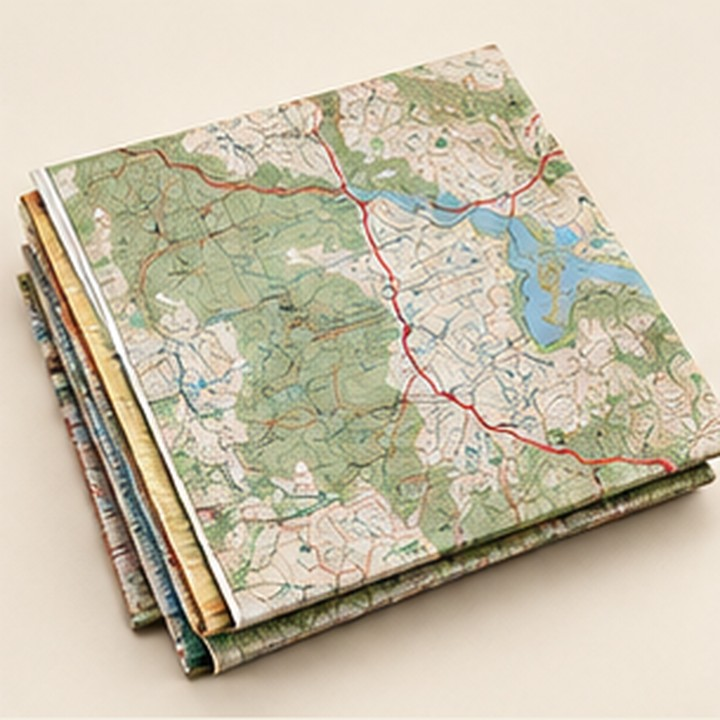
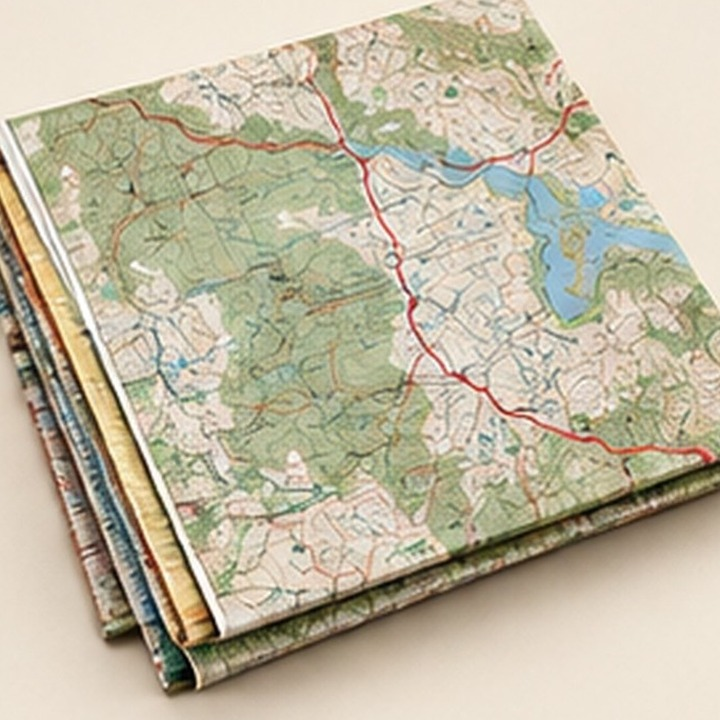
Add files via upload

diff --git a/css/styles.css b/css/styles.css
@@ -1,5 +1,7 @@
 @import url('https://fonts.googleapis.com/css2?family=DM+Sans:wght@400;500;600;700&family=Playfair+Display:ital,wght@0,500;0,600;0,700;1,500;1,600&display=swap');
-:root{--forest:#183b2d;--forest2:#254e3b;--moss:#758361;--cream:#f3f0e6;--paper:#fbfaf5;--sand:#dfd5bf;--orange:#db6a36;--ink:#1e2922;--muted:#69736a;--line:#deded2;--max:1380px}*{box-sizing:border-box}html{scroll-behavior:smooth;scroll-padding-top:90px}body{margin:0;background:var(--paper);color:var(--ink);font-family:'DM Sans',Arial,sans-serif;line-height:1.5}a{color:inherit;text-decoration:none}button,input,select{font:inherit}button{cursor:pointer;color:inherit}.sr-only{position:absolute;width:1px;height:1px;padding:0;margin:-1px;overflow:hidden;clip:rect(0,0,0,0);white-space:nowrap;border:0}.topline{display:flex;justify-content:space-between;padding:8px max(22px,calc((100vw - var(--max))/2));background:var(--forest);color:#e9e9d7;font-size:9px;letter-spacing:.15em}.header{max-width:var(--max);margin:auto;padding:17px 28px;display:grid;grid-template-columns:260px minmax(230px,1fr) auto;gap:28px;align-items:center}.brand{display:flex;align-items:center;gap:10px}.brand img{width:58px;height:58px;object-fit:contain}.brand span{display:flex;flex-direction:column;line-height:1.1}.brand b{font-family:'Playfair Display',serif;font-size:27px;letter-spacing:.08em}.brand small{font-size:8px;letter-spacing:.14em;color:var(--moss);margin-top:5px;font-weight:700}.search{height:43px;display:flex;border:1px solid #d6d7cc;background:white;border-radius:3px;max-width:650px;width:100%}.search:focus-within{border-color:var(--forest)}.search input{flex:1;min-width:0;border:0;outline:0;padding:0 14px;background:transparent;font-size:12px}.search button{width:44px;border:0;background:var(--forest);color:white;font-size:25px}.header-actions{display:flex;gap:16px}.head-action{border:0;background:transparent;font-size:13px;display:flex;align-items:center;gap:7px}.head-action b{background:var(--forest);color:white;border-radius:50%;font-size:10px;min-width:20px;height:20px;display:grid;place-items:center}.nav{display:flex;justify-content:center;gap:0;border-top:1px solid var(--line);border-bottom:1px solid var(--line);overflow:auto;white-space:nowrap;padding:0 10px;background:#fffdf8}.nav a{padding:13px 19px;font-size:11px;color:#4c594f;border-bottom:2px solid transparent}.nav a:hover,.nav a.selected{border-color:var(--orange);color:var(--forest)}main{max-width:var(--max);margin:auto}.hero{position:relative;min-height:570px;overflow:hidden;background:#22382c;display:flex;align-items:center;color:white}.hero-image{position:absolute;inset:0;width:100%;height:100%;object-fit:cover;object-position:center 56%}.hero-shade{position:absolute;inset:0;background:linear-gradient(90deg,rgba(17,39,29,.94) 0%,rgba(22,47,35,.79) 35%,rgba(22,47,35,.24) 72%,rgba(22,47,35,.1) 100%)}.hero-copy{position:relative;z-index:1;padding:64px 6.5%;max-width:680px}.eyebrow{margin:0 0 14px;font-size:9px;letter-spacing:.19em;font-weight:700;color:var(--orange)}.hero .eyebrow{color:#f4c89c}.hero .eyebrow span{display:inline-block;width:7px;height:7px;background:var(--orange);border-radius:50%;margin-right:9px}.hero h1{font-family:'Playfair Display',serif;font-size:clamp(54px,7vw,92px);line-height:.96;letter-spacing:-.05em;margin:0 0 20px;font-weight:600}.hero h1 em,.section-head h2 em,.wide-callout h2 em,.story h2 em,.newsletter h2 em{font-style:italic;color:#e9b080}.hero-copy>p:not(.eyebrow){max-width:455px;color:#e0e5db;font-size:15px;line-height:1.8;margin:0 0 26px}.hero-buttons{display:flex;gap:10px;flex-wrap:wrap}.button{display:inline-flex;justify-content:center;align-items:center;gap:18px;border:1px solid transparent;border-radius:2px;padding:13px 17px;font-size:11px;font-weight:700;transition:transform .2s,background .2s}.button:hover{transform:translateY(-2px)}.button-orange{background:var(--orange);color:white}.button-orange:hover{background:#c85b2b}.button-light{background:#fffaf0;color:var(--forest);border-color:#fffaf0}.button-green{background:var(--forest);color:white}.button-green:hover{background:var(--forest2)}.hero-caption{display:flex;gap:14px;align-items:center;margin-top:43px;font-size:10px;color:#d1d9ce}.hero-caption b{color:#f2b78d;letter-spacing:.14em}.hero-stamp{position:absolute;right:5%;bottom:40px;border:1px solid #f5e9d099;border-radius:50%;width:110px;height:110px;display:flex;flex-direction:column;align-items:center;justify-content:center;color:#f7f0e0;text-align:center;font-size:11px;font-weight:700;letter-spacing:.12em;transform:rotate(10deg)}.hero-stamp b{font-size:20px;color:#f2b78d}.principles{display:grid;grid-template-columns:repeat(3,1fr);border-bottom:1px solid var(--line);padding:23px 42px;gap:20px;background:#f3f0e6}.principles>div{display:flex;align-items:center;gap:14px}.principles>div>b{font-family:'Playfair Display',serif;font-size:25px;color:var(--orange)}.principles strong,.principles small{display:block}.principles strong{font-size:12px}.principles small{font-size:10px;color:var(--muted);margin-top:3px}.section{padding:70px 34px}.section-head{display:flex;justify-content:space-between;align-items:end;gap:24px;margin-bottom:28px}.section-head h2,.story h2,.newsletter h2{font-family:'Playfair Display',serif;font-size:clamp(34px,4vw,49px);line-height:1.05;letter-spacing:-.035em;margin:0}.section-head h2 em,.story h2 em,.newsletter h2 em{color:var(--forest)}.section-head>p{max-width:350px;color:var(--muted);font-size:12px;margin:0 0 3px}.category-grid{display:grid;grid-template-columns:repeat(4,1fr);gap:13px}.category-card{min-height:230px;position:relative;overflow:hidden;border:0;text-align:left;color:white;padding:22px;display:flex;flex-direction:column;align-items:flex-start;justify-content:flex-end;background:var(--forest);isolation:isolate}.category-card:before{content:"";position:absolute;inset:0;z-index:-1;transition:transform .35s;background:linear-gradient(0deg,rgba(13,37,26,.91),rgba(13,37,26,.04))}.category-card:hover:after{transform:scale(1.06)}.category-card:after{content:"";position:absolute;inset:0;z-index:-2;transition:transform .35s;background-size:cover;background-position:center}.cat-map:after{background-image:url('../assets/images/products/topographic-map-set.jpg')}.cat-nav:after{background-image:url('../assets/images/products/baseplate-compass.jpg')}.cat-hike:after{background-image:url('../assets/images/products/trekking-poles.jpg')}.cat-pack:after{background-image:url('../assets/images/products/hiking-backpack.jpg')}.category-index{position:absolute;top:17px;left:20px;font-size:8px;letter-spacing:.17em;color:#f0c49c}.category-symbol{font-family:'Playfair Display',serif;font-size:42px;line-height:1;margin-bottom:auto;color:#f0c49c}.category-card strong{font-family:'Playfair Display',serif;font-size:22px;font-weight:500}.category-card small{font-size:10px;margin-top:6px;color:#eee7d8}.shop{padding-top:12px}.shop-toolbar{display:flex;align-items:center;justify-content:space-between;margin:0 0 15px;padding:12px 0;border-top:1px solid var(--line);font-size:10px;color:var(--muted)}.shop-toolbar>div{display:flex;gap:8px}.shop-toolbar select{border:1px solid #d4d5ca;background:#fffdf8;padding:9px 24px 9px 10px;color:var(--ink);font-size:10px;border-radius:2px}.product-grid{display:grid;grid-template-columns:repeat(4,minmax(0,1fr));gap:14px}.product-card{border:1px solid #e0dfd4;background:#fffdf8;min-width:0;transition:transform .2s,border-color .2s;position:relative}.product-card:hover{transform:translateY(-4px);border-color:#a6b09a}.product-image{aspect-ratio:1/1;background:#f0ebdf;position:relative;overflow:hidden}.product-image img{width:100%;height:100%;display:block;object-fit:contain;object-position:center;background:#f0ebdf}.product-label{position:absolute;left:10px;top:10px;background:#f8f4e9;color:var(--forest);padding:5px 7px;font-size:7px;font-weight:700;letter-spacing:.13em}.favorite{position:absolute;right:9px;top:9px;border:1px solid #d7d7cb;background:#fffdf8;border-radius:50%;width:31px;height:31px;font-size:18px;display:grid;place-items:center;color:var(--forest)}.favorite.active{background:var(--orange);color:white;border-color:var(--orange)}.product-info{padding:15px}.product-category{font-size:8px;letter-spacing:.15em;color:var(--moss);font-weight:700;margin:0 0 7px}.product-info h3{font-family:'Playfair Display',serif;font-size:17px;line-height:1.2;margin:0 0 8px;font-weight:600}.product-desc{font-size:10px;color:var(--muted);line-height:1.6;margin:0 0 14px;min-height:48px}.product-bottom{display:flex;align-items:center;justify-content:space-between;gap:8px}.price{font-size:17px;font-weight:700;letter-spacing:-.04em}.add-btn{border:1px solid var(--forest);background:var(--forest);color:white;padding:9px 10px;font-size:9px;font-weight:700;white-space:nowrap}.add-btn:hover{background:var(--orange);border-color:var(--orange)}.view-btn{border:0;background:transparent;color:var(--forest);font-size:10px;text-decoration:underline;text-underline-offset:3px;padding:12px 0 0}.wide-callout{margin:0 34px 60px;background:var(--forest);color:#f8f5eb;min-height:280px;padding:42px 5%;display:flex;justify-content:space-between;align-items:center;overflow:hidden;position:relative}.wide-callout .eyebrow{color:#f2b78d}.wide-callout h2{font-family:'Playfair Display',serif;font-size:clamp(28px,4vw,45px);line-height:1.13;margin:0 0 14px}.wide-callout p:not(.eyebrow){max-width:510px;color:#d5dfd3;font-size:12px}.wide-callout a,.under-link{display:inline-block;margin-top:10px;font-size:11px;font-weight:700;color:#f2b78d;border-bottom:1px solid #f2b78d;padding-bottom:5px}.callout-mark{width:190px;height:190px;border:1px solid #cdd9bf70;border-radius:50%;display:grid;place-items:center;position:relative;flex-shrink:0;margin-right:5%}.callout-mark:before,.callout-mark:after{content:"";position:absolute;inset:15px;border:1px solid #cdd9bf55;border-radius:50%}.callout-mark:after{inset:35px}.callout-mark span{font-family:'Playfair Display',serif;font-size:90px;color:#e9b080}.callout-mark i{position:absolute;right:17px;top:20px;font-size:28px;color:#e9b080;font-style:normal}.story{display:grid;grid-template-columns:1fr 1fr;gap:60px;align-items:center;padding:10px 34px 72px}.story-map{background:var(--cream);padding:20px}.story-map img{display:block;width:100%;aspect-ratio:1.35;object-fit:cover}.story h2{margin-bottom:18px}.story p:not(.eyebrow){font-size:12px;color:var(--muted);line-height:1.9}.newsletter{display:flex;align-items:center;justify-content:space-between;gap:30px;padding:40px 34px;background:#ece8dc;border-top:1px solid #ded9ca}.newsletter h2{font-size:34px}.newsletter p:not(.eyebrow){color:var(--muted);font-size:11px}.newsletter form{display:grid;grid-template-columns:minmax(190px,300px) auto;gap:8px;max-width:490px;width:100%}.newsletter input{border:1px solid #d1d0c2;background:#fffdf8;padding:12px;min-width:0;font-size:11px}.newsletter small{grid-column:1/-1;font-size:9px;color:var(--muted)}.footer{max-width:var(--max);margin:auto;padding:38px 34px 18px;display:grid;grid-template-columns:1.3fr 1fr 1fr 1.3fr;gap:25px}.footer-brand img{width:115px;height:90px;object-fit:contain;object-position:left center}.footer-brand p,.footer p{font-size:10px;color:var(--muted)}.footer>div:not(.footer-brand):not(.footer-bottom){display:flex;flex-direction:column;align-items:flex-start;gap:9px}.footer strong{font-size:11px}.footer a{font-size:10px;color:var(--muted)}.footer a:hover{color:var(--orange)}.footer-bottom{grid-column:1/-1;border-top:1px solid var(--line);padding-top:15px;margin-top:10px;display:flex;justify-content:space-between;color:var(--muted);font-size:9px}.overlay{position:fixed;inset:0;background:#10170f9c;z-index:20;backdrop-filter:blur(3px)}.overlay[hidden],.drawer[hidden]{display:none}.drawer{position:fixed;right:0;top:0;bottom:0;z-index:21;width:min(430px,100vw);background:#fbfaf5;padding:23px;display:flex;flex-direction:column;box-shadow:-15px 0 50px #0002;border-left:1px solid var(--line)}.drawer-head{display:flex;align-items:center;justify-content:space-between;border-bottom:1px solid var(--line);padding-bottom:16px}.drawer-head .eyebrow{margin-bottom:4px}.drawer-head h2{font-family:'Playfair Display',serif;margin:0;font-size:27px}.drawer-head small{font-family:'DM Sans',sans-serif;font-size:12px;color:var(--muted)}.close-drawer,.close-dialog{width:35px;height:35px;border:1px solid var(--line);border-radius:50%;background:white;font-size:24px}.drawer-content{flex:1;overflow:auto;padding:10px 0}.empty-state{text-align:center;color:var(--muted);padding:45px 10px;font-size:12px}.drawer-item{display:grid;grid-template-columns:76px 1fr auto;gap:12px;padding:12px 0;border-bottom:1px solid var(--line)}.drawer-item img{width:76px;height:76px;object-fit:contain;background:#f0ebdf}.drawer-item h3{font-family:'Playfair Display',serif;font-size:14px;margin:3px 0}.drawer-item p{font-size:11px;color:var(--muted);margin:0 0 8px}.qty{display:flex;align-items:center;gap:8px}.qty button{width:23px;height:23px;border:1px solid var(--line);background:white}.remove{background:none;border:0;font-size:20px;color:var(--muted)}.drawer-foot{border-top:1px solid var(--line);padding-top:15px}.subtotal{display:flex;justify-content:space-between}.drawer-foot p,.drawer-foot small{font-size:9px;color:var(--muted)}.full{width:100%;margin:10px 0}dialog{border:1px solid var(--line);padding:0;width:min(760px,calc(100vw - 25px));max-height:90vh;background:#fbfaf5;color:var(--ink)}dialog::backdrop{background:#17261cc7;backdrop-filter:blur(4px)}.close-dialog{position:sticky;top:10px;float:right;margin:10px -44px -45px 0;z-index:2}.detail-layout{display:grid;grid-template-columns:1fr 1fr;gap:24px;padding:25px}.detail-layout img{width:100%;aspect-ratio:1;object-fit:contain;background:#f0ebdf}.detail-layout h2{font-family:'Playfair Display',serif;font-size:30px;line-height:1.1}.detail-layout p{font-size:12px;color:var(--muted)}.detail-layout .price{font-size:23px;margin:20px 0}.toast{position:fixed;bottom:22px;left:50%;transform:translate(-50%,20px);opacity:0;pointer-events:none;z-index:40;background:var(--forest);color:white;padding:12px 18px;font-size:11px;box-shadow:0 6px 24px #0002;transition:.2s}.toast.show{opacity:1;transform:translate(-50%,0)}.no-results{grid-column:1/-1;padding:40px;text-align:center;border:1px dashed var(--line);color:var(--muted)}
+:root{--forest:#183b2d;--forest2:#254e3b;--moss:#758361;--cream:#f3f0e6;--paper:#fbfaf5;--sand:#dfd5bf;--orange:#db6a36;--ink:#1e2922;--muted:#69736a;--line:#deded2;--max:1380px}*{box-sizing:border-box}html{scroll-behavior:smooth;scroll-padding-top:90px}body{margin:0;background:var(--paper);color:var(--ink);font-family:'DM Sans',Arial,sans-serif;line-height:1.5}a{color:inherit;text-decoration:none}button,input,select{font:inherit}button{cursor:pointer;color:inherit}.sr-only{position:absolute;width:1px;height:1px;padding:0;margin:-1px;overflow:hidden;clip:rect(0,0,0,0);white-space:nowrap;border:0}.topline{display:flex;justify-content:space-between;padding:8px max(22px,calc((100vw - var(--max))/2));background:var(--forest);color:#e9e9d7;font-size:9px;letter-spacing:.15em}.header{max-width:var(--max);margin:auto;padding:17px 28px;display:grid;grid-template-columns:260px minmax(230px,1fr) auto;gap:28px;align-items:center}.brand{display:flex;align-items:center;gap:10px}.brand img{width:58px;height:58px;object-fit:contain}.brand span{display:flex;flex-direction:column;line-height:1.1}.brand b{font-family:'Playfair Display',serif;font-size:27px;letter-spacing:.08em}.brand small{font-size:8px;letter-spacing:.14em;color:var(--moss);margin-top:5px;font-weight:700}.search{height:43px;display:flex;border:1px solid #d6d7cc;background:white;border-radius:3px;max-width:650px;width:100%}.search:focus-within{border-color:var(--forest)}.search input{flex:1;min-width:0;border:0;outline:0;padding:0 14px;background:transparent;font-size:12px}.search button{width:44px;border:0;background:var(--forest);color:white;font-size:25px}.header-actions{display:flex;gap:16px}.head-action{border:0;background:transparent;font-size:13px;display:flex;align-items:center;gap:7px}.head-action b{background:var(--forest);color:white;border-radius:50%;font-size:10px;min-width:20px;height:20px;display:grid;place-items:center}.nav{display:flex;justify-content:center;gap:0;border-top:1px solid var(--line);border-bottom:1px solid var(--line);overflow:auto;white-space:nowrap;padding:0 10px;background:#fffdf8}.nav a{padding:13px 19px;font-size:11px;color:#4c594f;border-bottom:2px solid transparent}.nav a:hover,.nav a.selected{border-color:var(--orange);color:var(--forest)}main{max-width:var(--max);margin:auto}.hero{position:relative;min-height:570px;overflow:hidden;background:#22382c;display:flex;align-items:center;color:white}.hero-image{position:absolute;inset:0;width:100%;height:100%;object-fit:cover;object-position:center 56%}.hero-shade{position:absolute;inset:0;background:linear-gradient(90deg,rgba(17,39,29,.94) 0%,rgba(22,47,35,.79) 35%,rgba(22,47,35,.24) 72%,rgba(22,47,35,.1) 100%)}.hero-copy{position:relative;z-index:1;padding:64px 6.5%;max-width:680px}.eyebrow{margin:0 0 14px;font-size:9px;letter-spacing:.19em;font-weight:700;color:var(--orange)}.hero .eyebrow{color:#f4c89c}.hero .eyebrow span{display:inline-block;width:7px;height:7px;background:var(--orange);border-radius:50%;margin-right:9px}.hero h1{font-family:'Playfair Display',serif;font-size:clamp(54px,7vw,92px);line-height:.96;letter-spacing:-.05em;margin:0 0 20px;font-weight:600}.hero h1 em,.section-head h2 em,.wide-callout h2 em,.story h2 em,.newsletter h2 em{font-style:italic;color:#e9b080}.hero-copy>p:not(.eyebrow){max-width:455px;color:#e0e5db;font-size:15px;line-height:1.8;margin:0 0 26px}.hero-buttons{display:flex;gap:10px;flex-wrap:wrap}.button{display:inline-flex;justify-content:center;align-items:center;gap:18px;border:1px solid transparent;border-radius:2px;padding:13px 17px;font-size:11px;font-weight:700;transition:transform .2s,background .2s}.button:hover{transform:translateY(-2px)}.button-orange{background:var(--orange);color:white}.button-orange:hover{background:#c85b2b}.button-light{background:#fffaf0;color:var(--forest);border-color:#fffaf0}.button-green{background:var(--forest);color:white}.button-green:hover{background:var(--forest2)}.hero-caption{display:flex;gap:14px;align-items:center;margin-top:43px;font-size:10px;color:#d1d9ce}.hero-caption b{color:#f2b78d;letter-spacing:.14em}.hero-stamp{position:absolute;right:5%;bottom:40px;border:1px solid #f5e9d099;border-radius:50%;width:110px;height:110px;display:flex;flex-direction:column;align-items:center;justify-content:center;color:#f7f0e0;text-align:center;font-size:11px;font-weight:700;letter-spacing:.12em;transform:rotate(10deg)}.hero-stamp b{font-size:20px;color:#f2b78d}.principles{display:grid;grid-template-columns:repeat(3,1fr);border-bottom:1px solid var(--line);padding:23px 42px;gap:20px;background:#f3f0e6}.principles>div{display:flex;align-items:center;gap:14px}.principles>div>b{font-family:'Playfair Display',serif;font-size:25px;color:var(--orange)}.principles strong,.principles small{display:block}.principles strong{font-size:12px}.principles small{font-size:10px;color:var(--muted);margin-top:3px}.section{padding:70px 34px}.section-head{display:flex;justify-content:space-between;align-items:end;gap:24px;margin-bottom:28px}.section-head h2,.story h2,.newsletter h2{font-family:'Playfair Display',serif;font-size:clamp(34px,4vw,49px);line-height:1.05;letter-spacing:-.035em;margin:0}.section-head h2 em,.story h2 em,.newsletter h2 em{color:var(--forest)}.section-head>p{max-width:350px;color:var(--muted);font-size:12px;margin:0 0 3px}.category-grid{display:grid;grid-template-columns:repeat(4,1fr);gap:13px}.category-card{min-height:230px;position:relative;overflow:hidden;border:0;text-align:left;color:white;padding:22px;display:flex;flex-direction:column;align-items:flex-start;justify-content:flex-end;background:var(--forest);isolation:isolate}.category-card:before{content:"";position:absolute;inset:0;z-index:-1;transition:transform .35s;background:linear-gradient(0deg,rgba(13,37,26,.91),rgba(13,37,26,.04))}.category-card:hover:after{transform:scale(1.06)}.category-card:after{content:"";position:absolute;inset:0;z-index:-2;transition:transform .35s;background-size:cover;background-position:center}.cat-map:after{background-image:url('../assets/images/products/topographic-map-set.jpg')}.cat-nav:after{background-image:url('../assets/images/products/baseplate-compass.jpg')}.cat-hike:after{background-image:url('../assets/images/products/trekking-poles.jpg')}.cat-pack:after{background-image:url('../assets/images/products/hiking-backpack.jpg')}.category-index{position:absolute;top:17px;left:20px;font-size:8px;letter-spacing:.17em;color:#f0c49c}.category-symbol{font-family:'Playfair Display',serif;font-size:42px;line-height:1;margin-bottom:auto;color:#f0c49c}.category-card strong{font-family:'Playfair Display',serif;font-size:22px;font-weight:500}.category-card small{font-size:10px;margin-top:6px;color:#eee7d8}.shop{padding-top:12px}.shop-toolbar{display:flex;align-items:center;justify-content:space-between;margin:0 0 15px;padding:12px 0;border-top:1px solid var(--line);font-size:10px;color:var(--muted)}.shop-toolbar>div{display:flex;gap:8px}.shop-toolbar select{border:1px solid #d4d5ca;background:#fffdf8;padding:9px 24px 9px 10px;color:var(--ink);font-size:10px;border-radius:2px}.product-grid{display:grid;grid-template-columns:repeat(4,minmax(0,1fr));gap:14px}.product-card{border:1px solid #e0dfd4;background:#fffdf8;min-width:0;transition:transform .2s,border-color .2s;position:relative}.product-card:hover{transform:translateY(-4px);border-color:#a6b09a}.product-image{aspect-ratio:1/1;background:#f0ebdf;position:relative;overflow:hidden}.product-image img{width:100%;height:100%;display:block;object-fit:cover;object-position:center;border:0;margin:0;background:#f0ebdf}.product-label{position:absolute;left:10px;top:10px;background:#f8f4e9;color:var(--forest);padding:5px 7px;font-size:7px;font-weight:700;letter-spacing:.13em}.favorite{position:absolute;right:9px;top:9px;border:1px solid #d7d7cb;background:#fffdf8;border-radius:50%;width:31px;height:31px;font-size:18px;display:grid;place-items:center;color:var(--forest)}.favorite.active{background:var(--orange);color:white;border-color:var(--orange)}.product-info{padding:15px}.product-category{font-size:8px;letter-spacing:.15em;color:var(--moss);font-weight:700;margin:0 0 7px}.product-info h3{font-family:'Playfair Display',serif;font-size:17px;line-height:1.2;margin:0 0 8px;font-weight:600}.product-desc{font-size:10px;color:var(--muted);line-height:1.6;margin:0 0 14px;min-height:48px}.product-bottom{display:flex;align-items:center;justify-content:space-between;gap:8px}.price{font-size:17px;font-weight:700;letter-spacing:-.04em}.add-btn{border:1px solid var(--forest);background:var(--forest);color:white;padding:9px 10px;font-size:9px;font-weight:700;white-space:nowrap}.add-btn:hover{background:var(--orange);border-color:var(--orange)}.view-btn{border:0;background:transparent;color:var(--forest);font-size:10px;text-decoration:underline;text-underline-offset:3px;padding:12px 0 0}.wide-callout{margin:0 34px 60px;background:var(--forest);color:#f8f5eb;min-height:280px;padding:42px 5%;display:flex;justify-content:space-between;align-items:center;overflow:hidden;position:relative}.wide-callout .eyebrow{color:#f2b78d}.wide-callout h2{font-family:'Playfair Display',serif;font-size:clamp(28px,4vw,45px);line-height:1.13;margin:0 0 14px}.wide-callout p:not(.eyebrow){max-width:510px;color:#d5dfd3;font-size:12px}.wide-callout a,.under-link{display:inline-block;margin-top:10px;font-size:11px;font-weight:700;color:#f2b78d;border-bottom:1px solid #f2b78d;padding-bottom:5px}.callout-mark{width:190px;height:190px;border:1px solid #cdd9bf70;border-radius:50%;display:grid;place-items:center;position:relative;flex-shrink:0;margin-right:5%}.callout-mark:before,.callout-mark:after{content:"";position:absolute;inset:15px;border:1px solid #cdd9bf55;border-radius:50%}.callout-mark:after{inset:35px}.callout-mark span{font-family:'Playfair Display',serif;font-size:90px;color:#e9b080}.callout-mark i{position:absolute;right:17px;top:20px;font-size:28px;color:#e9b080;font-style:normal}.story{display:grid;grid-template-columns:1fr 1fr;gap:60px;align-items:center;padding:10px 34px 72px}.story-map{background:var(--cream);padding:20px}.story-map img{display:block;width:100%;aspect-ratio:1.35;object-fit:cover}.story h2{margin-bottom:18px}.story p:not(.eyebrow){font-size:12px;color:var(--muted);line-height:1.9}.newsletter{display:flex;align-items:center;justify-content:space-between;gap:30px;padding:40px 34px;background:#ece8dc;border-top:1px solid #ded9ca}.newsletter h2{font-size:34px}.newsletter p:not(.eyebrow){color:var(--muted);font-size:11px}.newsletter form{display:grid;grid-template-columns:minmax(190px,300px) auto;gap:8px;max-width:490px;width:100%}.newsletter input{border:1px solid #d1d0c2;background:#fffdf8;padding:12px;min-width:0;font-size:11px}.newsletter small{grid-column:1/-1;font-size:9px;color:var(--muted)}.footer{max-width:var(--max);margin:auto;padding:38px 34px 18px;display:grid;grid-template-columns:1.3fr 1fr 1fr 1.3fr;gap:25px}.footer-brand img{width:115px;height:90px;object-fit:contain;object-position:left center}.footer-brand p,.footer p{font-size:10px;color:var(--muted)}.footer>div:not(.footer-brand):not(.footer-bottom){display:flex;flex-direction:column;align-items:flex-start;gap:9px}.footer strong{font-size:11px}.footer a{font-size:10px;color:var(--muted)}.footer a:hover{color:var(--orange)}.footer-bottom{grid-column:1/-1;border-top:1px solid var(--line);padding-top:15px;margin-top:10px;display:flex;justify-content:space-between;color:var(--muted);font-size:9px}.overlay{position:fixed;inset:0;background:#10170f9c;z-index:20;backdrop-filter:blur(3px)}.overlay[hidden],.drawer[hidden]{display:none}.drawer{position:fixed;right:0;top:0;bottom:0;z-index:21;width:min(430px,100vw);background:#fbfaf5;padding:23px;display:flex;flex-direction:column;box-shadow:-15px 0 50px #0002;border-left:1px solid var(--line)}.drawer-head{display:flex;align-items:center;justify-content:space-between;border-bottom:1px solid var(--line);padding-bottom:16px}.drawer-head .eyebrow{margin-bottom:4px}.drawer-head h2{font-family:'Playfair Display',serif;margin:0;font-size:27px}.drawer-head small{font-family:'DM Sans',sans-serif;font-size:12px;color:var(--muted)}.close-drawer,.close-dialog{width:35px;height:35px;border:1px solid var(--line);border-radius:50%;background:white;font-size:24px}.drawer-content{flex:1;overflow:auto;padding:10px 0}.empty-state{text-align:center;color:var(--muted);padding:45px 10px;font-size:12px}.drawer-item{display:grid;grid-template-columns:76px 1fr auto;gap:12px;padding:12px 0;border-bottom:1px solid var(--line)}.drawer-item img{width:76px;height:76px;object-fit:contain;background:#f0ebdf}.drawer-item h3{font-family:'Playfair Display',serif;font-size:14px;margin:3px 0}.drawer-item p{font-size:11px;color:var(--muted);margin:0 0 8px}.qty{display:flex;align-items:center;gap:8px}.qty button{width:23px;height:23px;border:1px solid var(--line);background:white}.remove{background:none;border:0;font-size:20px;color:var(--muted)}.drawer-foot{border-top:1px solid var(--line);padding-top:15px}.subtotal{display:flex;justify-content:space-between}.drawer-foot p,.drawer-foot small{font-size:9px;color:var(--muted)}.full{width:100%;margin:10px 0}dialog{border:1px solid var(--line);padding:0;width:min(760px,calc(100vw - 25px));max-height:90vh;background:#fbfaf5;color:var(--ink)}dialog::backdrop{background:#17261cc7;backdrop-filter:blur(4px)}.close-dialog{position:sticky;top:10px;float:right;margin:10px -44px -45px 0;z-index:2}.detail-layout{display:grid;grid-template-columns:1fr 1fr;gap:24px;padding:25px}.detail-layout img{width:100%;aspect-ratio:1;object-fit:contain;background:#f0ebdf}.detail-layout h2{font-family:'Playfair Display',serif;font-size:30px;line-height:1.1}.detail-layout p{font-size:12px;color:var(--muted)}.detail-layout .price{font-size:23px;margin:20px 0}.toast{position:fixed;bottom:22px;left:50%;transform:translate(-50%,20px);opacity:0;pointer-events:none;z-index:40;background:var(--forest);color:white;padding:12px 18px;font-size:11px;box-shadow:0 6px 24px #0002;transition:.2s}.toast.show{opacity:1;transform:translate(-50%,0)}.no-results{grid-column:1/-1;padding:40px;text-align:center;border:1px dashed var(--line);color:var(--muted)}
 @media(max-width:1000px){.header{grid-template-columns:190px 1fr auto;gap:15px}.brand img{width:48px;height:48px}.brand b{font-size:23px}.nav a{padding:12px}.hero{min-height:500px}.category-grid{grid-template-columns:repeat(2,1fr)}.product-grid{grid-template-columns:repeat(3,minmax(0,1fr))}.footer{grid-template-columns:repeat(2,1fr)}}
 @media(max-width:680px){.topline{padding:8px 14px;font-size:8px}.topline span:nth-child(2){display:none}.header{grid-template-columns:1fr auto;padding:12px 15px;gap:10px}.brand{grid-column:1}.brand img{width:44px;height:44px}.brand b{font-size:21px}.brand small{font-size:7px}.search{grid-column:1/-1;grid-row:2;max-width:none}.header-actions{grid-column:2;grid-row:1;gap:7px}.head-action{font-size:11px}.head-action span{display:none}.nav{justify-content:flex-start}.nav a{font-size:10px;padding:12px}.hero{min-height:530px;align-items:flex-end}.hero-image{object-position:62% center}.hero-shade{background:linear-gradient(0deg,rgba(17,39,29,.95),rgba(17,39,29,.64) 55%,rgba(17,39,29,.12))}.hero-copy{padding:36px 22px 30px}.hero h1{font-size:58px}.hero-copy>p:not(.eyebrow){font-size:13px}.hero-stamp{width:78px;height:78px;right:15px;top:15px;font-size:8px}.hero-stamp b{font-size:15px}.principles{grid-template-columns:1fr;padding:18px 20px;gap:14px}.principles>div>b{font-size:20px}.section{padding:45px 15px}.section-head{display:block}.section-head>p{margin-top:12px}.category-grid{gap:8px}.category-card{min-height:190px;padding:14px}.category-card strong{font-size:18px}.category-index{left:13px;top:13px;font-size:7px}.category-symbol{font-size:34px}.shop{padding-top:0}.shop-toolbar{align-items:flex-start;gap:10px}.shop-toolbar>div{flex-direction:column;width:58%}.shop-toolbar select{width:100%}.product-grid{grid-template-columns:repeat(2,minmax(0,1fr));gap:9px}.product-info{padding:10px}.product-info h3{font-size:14px}.product-desc{font-size:9px;min-height:55px}.product-bottom{align-items:flex-start;flex-direction:column}.price{font-size:16px}.add-btn{width:100%}.product-label{font-size:6px;max-width:calc(100% - 50px);white-space:nowrap;overflow:hidden;text-overflow:ellipsis}.wide-callout{margin:0 15px 42px;padding:28px 22px;min-height:250px}.wide-callout h2{font-size:30px}.callout-mark{width:80px;height:80px;margin:0 0 0 8px}.callout-mark:before{inset:7px}.callout-mark:after{inset:15px}.callout-mark span{font-size:40px}.callout-mark i{font-size:15px;right:7px;top:7px}.story{grid-template-columns:1fr;gap:25px;padding:0 15px 45px}.story-map{padding:10px}.story h2{font-size:36px}.newsletter{display:block;padding:32px 16px}.newsletter form{grid-template-columns:1fr;margin-top:20px}.newsletter small{grid-column:1}.footer{grid-template-columns:repeat(2,minmax(0,1fr));padding:30px 16px 18px;gap:22px 15px}.footer-bottom{display:block;line-height:2}.footer-bottom span{display:block}.detail-layout{grid-template-columns:1fr;padding:20px}.detail-layout img{max-height:280px}.close-dialog{margin-right:10px}.drawer{padding:17px}}
 @media(prefers-reduced-motion:reduce){*,*:before,*:after{scroll-behavior:auto!important;transition:none!important}}
+
+.support-contact{font-size:11px;color:var(--muted)}.support-contact a{color:var(--forest);font-weight:700;text-decoration:underline;text-underline-offset:3px}

diff --git a/index.html b/index.html
@@ -26,9 +26,9 @@
 <section id="shop" class="section shop"><div class="section-head"><div><p class="eyebrow">THE NORTE FIELD EDIT</p><h2>Selected for <em>the outdoors.</em></h2></div><p>Practical pieces for planning, moving, observing, and staying ready.</p></div><div class="shop-toolbar"><span id="result-count">16 pieces</span><div><label class="sr-only" for="category-filter">Filter by category</label><select id="category-filter"><option value="All">All categories</option><option>Maps & Cartography</option><option>Navigation</option><option>Packs & Bags</option><option>Hiking Gear</option><option>Lighting & Safety</option><option>Hydration</option><option>Exploration Tools</option><option>Power & Lighting</option></select><label class="sr-only" for="sort-filter">Sort products</label><select id="sort-filter"><option value="featured">Featured</option><option value="price-low">Price: low to high</option><option value="price-high">Price: high to low</option><option value="name">Name A–Z</option></select></div></div><div id="product-grid" class="product-grid" aria-live="polite"></div></section>
 <section class="wide-callout"><div><p class="eyebrow">THE PAPER STILL MATTERS</p><h2>Technology is useful.<br><em>Knowing your way is better.</em></h2><p>Build a navigation kit that balances digital tools with map-reading basics and thoughtful preparation.</p><a href="#shop" data-nav-category="Navigation">Explore navigation essentials ↗</a></div><div class="callout-mark"><span>N</span><i>✳</i></div></section>
 <section id="story" class="story"><div class="story-map"><img src="assets/images/products/topographic-map-set.jpg" alt="Topographic maps laid out for route planning"></div><div><p class="eyebrow">A NOTE FROM NORTE</p><h2>Every route starts<br>with <em>curiosity.</em></h2><p>NORTE is a cartography and adventure storefront concept built around the small things that make a journey feel more considered: a map you can read, a compass you understand, a pack that keeps essentials close, and a plan flexible enough to leave room for discovery.</p><p>We believe in practical gear, clear information, and respect for the places we explore.</p><a href="#contact" class="under-link">A little more about us ↗</a></div></section>
-<section id="contact" class="newsletter"><div><p class="eyebrow">NOTES FROM THE FIELD</p><h2>Keep your <em>curiosity.</em></h2><p>Occasional trail inspiration, navigation notes, and new collection updates.</p></div><form id="newsletter-form"><label class="sr-only" for="email">Email address</label><input id="email" type="email" placeholder="Your email address" required><button class="button button-green">Sign me up ↗</button><small id="newsletter-message">Demo form — no email is sent.</small></form></section>
+<section id="contact" class="newsletter"><div><p class="eyebrow">NOTES FROM THE FIELD</p><h2>Keep your <em>curiosity.</em></h2><p>Occasional trail inspiration, navigation notes, and new collection updates.</p><p class="support-contact">Need help? Email <a href="mailto:support@norte.example">support@norte.example</a></p></div><form id="newsletter-form"><label class="sr-only" for="email">Email address</label><input id="email" type="email" placeholder="Your email address" required><button class="button button-green">Sign me up ↗</button><small id="newsletter-message">Demo form — no email is sent.</small></form></section>
 </main>
-<footer class="footer"><div class="footer-brand"><img src="assets/logo/norte-logo.jpg" alt="NORTE logo"><p>Find your direction.<br>Explore beyond.</p></div><div><strong>Discover</strong><a href="#shop">Shop all gear</a><a href="#categories">Collections</a><a href="#story">Our approach</a></div><div><strong>Customer care</strong><a href="#contact">Contact & support</a><a href="#contact">Shipping information</a><a href="#contact">Returns information</a></div><div><strong>NORTE field desk</strong><p>Support: support@norte.example</p><p>Independent storefront concept</p></div><div class="footer-bottom"><span>© 2026 NORTE Cartography & Adventure. All rights reserved.</span><span>Plan thoughtfully. Explore respectfully.</span></div></footer>
+<footer class="footer"><div class="footer-brand"><img src="assets/logo/norte-logo.jpg" alt="NORTE logo"><p>Find your direction.<br>Explore beyond.</p></div><div><strong>Discover</strong><a href="#shop">Shop all gear</a><a href="#categories">Collections</a><a href="#story">Our approach</a></div><div><strong>Customer care</strong><a href="mailto:support@norte.example">Email support: support@norte.example</a><a href="#contact">Shipping information</a><a href="#contact">Returns information</a></div><div><strong>NORTE field desk</strong><p>Support email: <a href="mailto:support@norte.example">support@norte.example</a></p><p>Replace this demo address with your official support inbox before launch.</p></div><div class="footer-bottom"><span>© 2026 NORTE Cartography & Adventure. All rights reserved.</span><span>Plan thoughtfully. Explore respectfully.</span></div></footer>
 <div id="overlay" class="overlay" hidden></div>
 <aside id="cart-drawer" class="drawer" role="dialog" aria-modal="true" aria-label="Shopping bag" hidden><div class="drawer-head"><div><p class="eyebrow">YOUR FIELD KIT</p><h2>Your bag <small id="bag-total-count">(0)</small></h2></div><button class="close-drawer" data-close aria-label="Close">×</button></div><div id="cart-items" class="drawer-content"></div><div class="drawer-foot"><div class="subtotal"><span>Subtotal</span><b id="subtotal">$0.00</b></div><p>Shipping and taxes calculated at checkout.</p><button id="checkout" class="button button-green full">Continue to checkout ↗</button><small>Demo store: checkout is not connected.</small></div></aside>
 <aside id="favorites-drawer" class="drawer" role="dialog" aria-modal="true" aria-label="Saved items" hidden><div class="drawer-head"><div><p class="eyebrow">SAVE FOR LATER</p><h2>Your saved gear</h2></div><button class="close-drawer" data-close aria-label="Close">×</button></div><div id="favorite-items" class="drawer-content"></div></aside>

diff --git a/CHANGELOG.md b/CHANGELOG.md
@@ -1,10 +1,10 @@
 # Changelog
 
-## V2 — 2026-10-13
-- Corrected product image slicing to match the source image's actual 4×4 grid geometry.
-- Re-exported all 16 product photos as individual square files, with safe padding to avoid adjacent product bleed and preserve full objects.
-- Verified each product points to its own local image file.
-- Repacked the project and checked ZIP integrity and local paths.
+## V3 — 2026-10-13
+- Removed the visible padding/frame from the topographic map product image.
+- Updated product photo rendering to fill each image tile without an artificial image border.
+- Added visible, clickable support email links to the contact section and customer-care footer.
+- Updated documentation to identify the support email as a demo placeholder that must be replaced before launch.
 
 ## V1 — 2026-10-13
 - Initial NORTE storefront structure and brand identity.

diff --git a/README.md b/README.md
@@ -117,10 +117,11 @@ The URL usually follows `https://YOUR-USERNAME.github.io/norte-adventure/`. Repl
 
 ## Customer support
 
-**NORTE — Cartography & Adventure**  
-Support placeholder: `support@norte.example`
+**NORTE — Cartography & Adventure**
 
-The `.example` address is reserved for documentation and is not a live inbox. Replace it with an official support address before using this storefront commercially.
+- **Support email shown in the storefront:** `support@norte.example`
+- The support email is linked with `mailto:` in the footer and contact section.
+- **Important:** `.example` is reserved for documentation and is not a live inbox. Replace it with your official support email before using this storefront commercially.
 
 ## Project status
 
